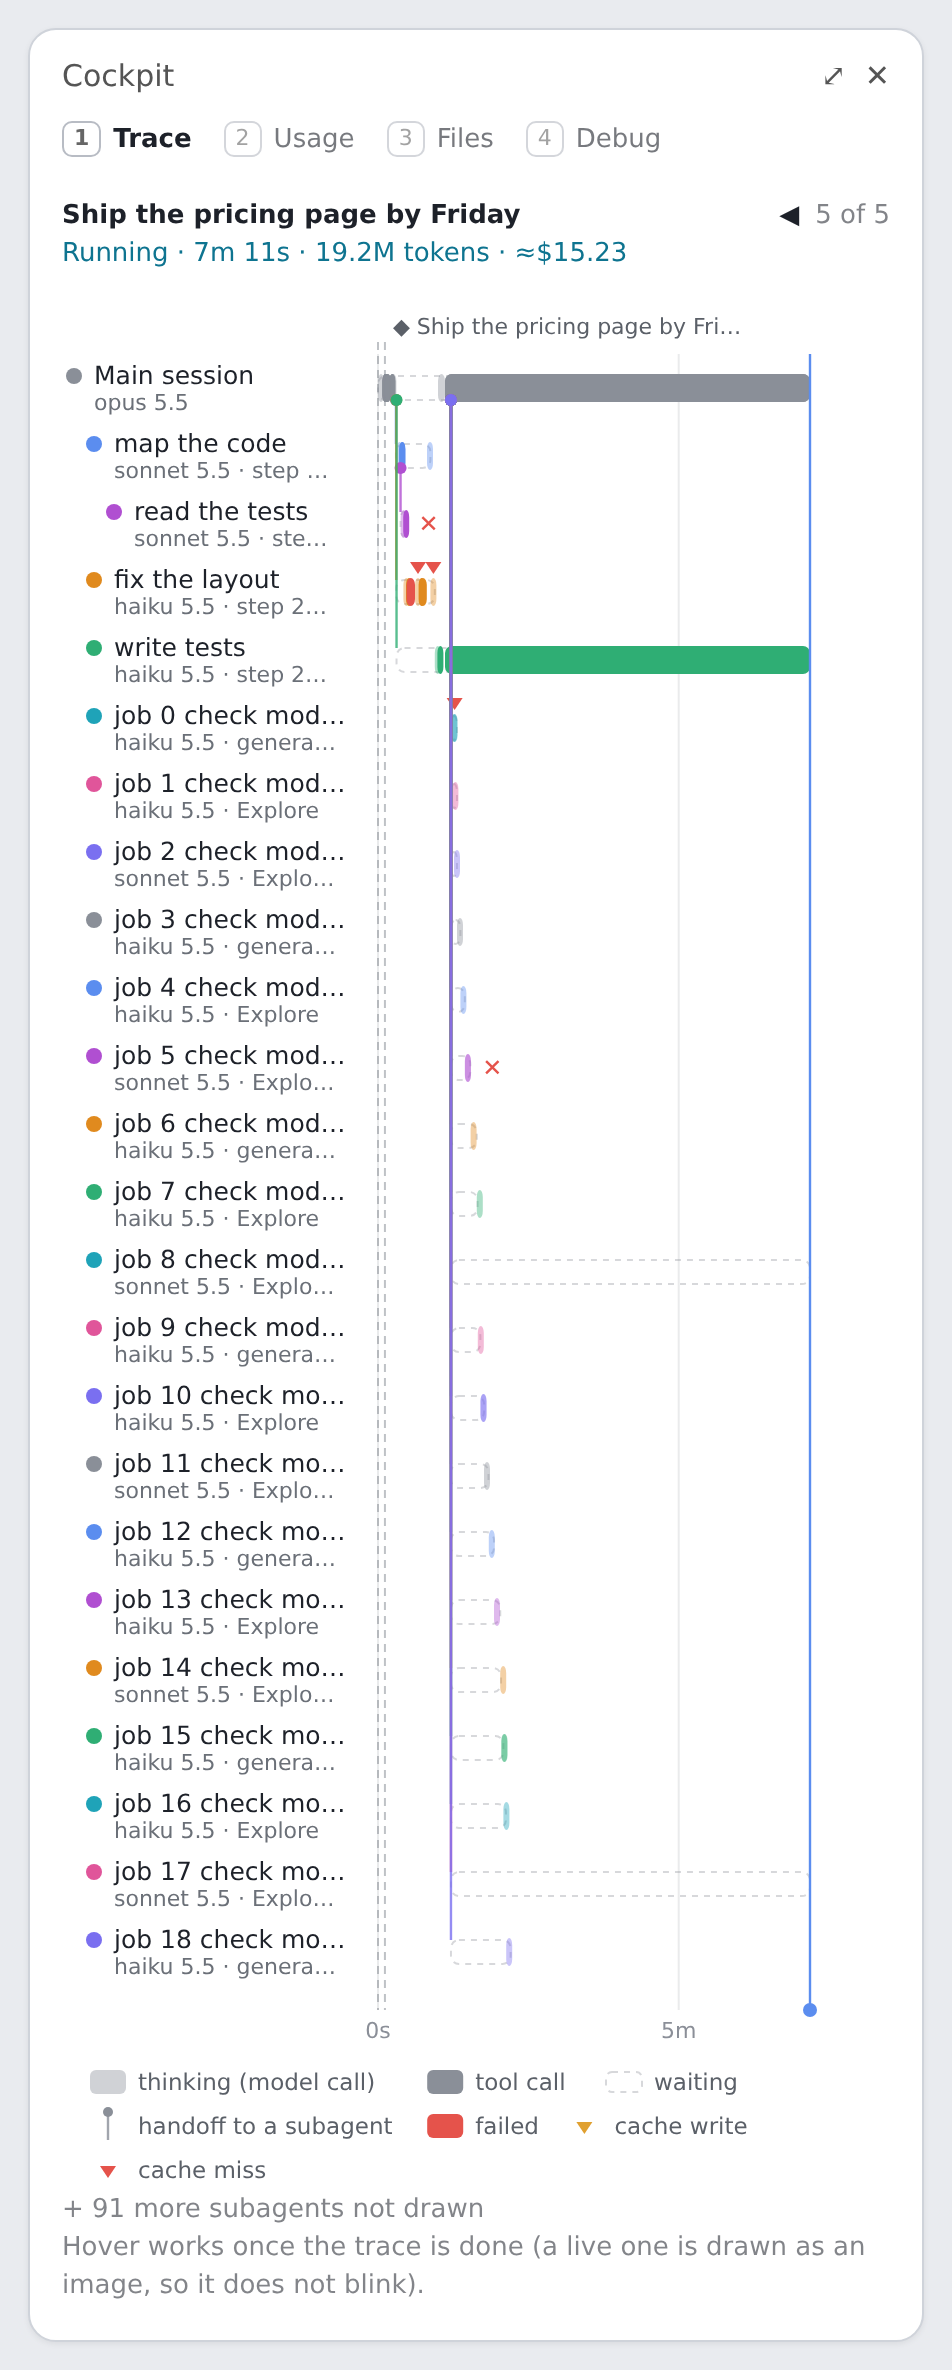
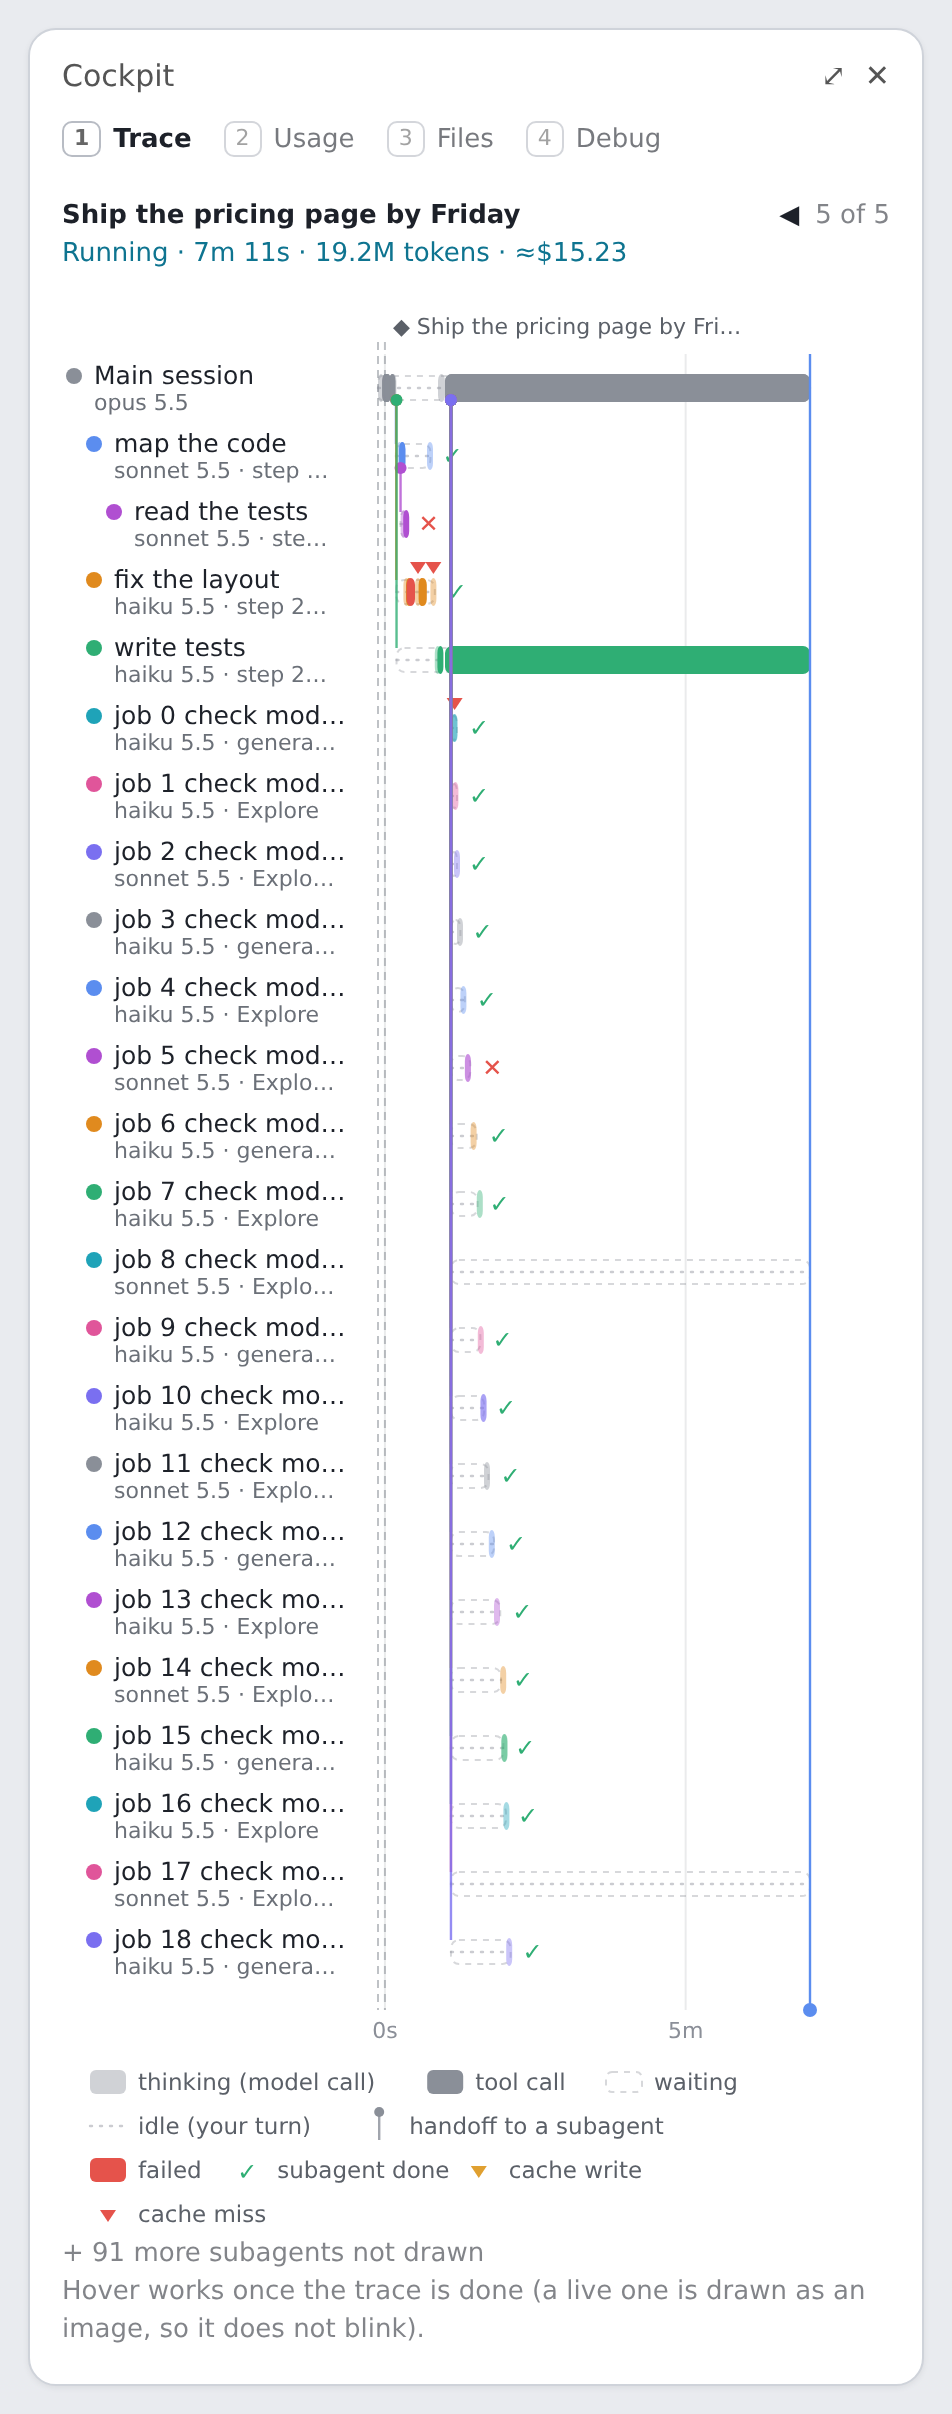
cockpit 0.19.0: idle time between turns, finished subagents marked and closed from the agent list, previous prompt only a short lead-in with time counted from the latest

diff --git a/lib/lanes.js b/lib/lanes.js
@@ -98,6 +98,8 @@ export function lanesOf(S, rootIds, now) {
       depth,
       t0: sp.t0,
       t1: isMain ? Math.max(...rootIds.map((id) => end[id])) : sp.t1 ?? now,
+      // When the lane was at work (a turn open, or the subagent running); the rest of its life is idle, waiting on you.
+      active: isMain ? all.filter((x) => x.k === 'turn').map((x) => [x.t0, x.t1 ?? now]) : [[sp.t0, sp.t1 ?? now]],
       from,
       blocks,
       live: sp.st === 'run',
@@ -107,11 +109,16 @@ export function lanesOf(S, rootIds, now) {
     for (const ag of isMain ? rootIds.flatMap((id) => agentsUnder(id)) : agentsUnder(sp.id)) add(ag, depth + 1, lanes.find((l) => l.id === sp.id))
   }
   add(root, 0, null)
-  const hidden = Math.max(0, lanes.length - MAX_LANES)
   const T1 = Math.max(...rootIds.map((id) => end[id]), root.t0 + 1000)
+  // The axis counts from the latest prompt (0s). The one before shows only as a short lead-in, a quarter of the
+  // latest's length (30 s at least), so it gives context without taking the room; lanes over before it are left out.
+  const origin = S.spans[rootIds[rootIds.length - 1]].t0
+  const T0 = Math.max(root.t0, origin - Math.max(30000, (T1 - origin) / 4))
+  const shownLanes = lanes.filter((l) => l.depth === 0 || l.t1 >= T0)
+  const hidden = Math.max(0, shownLanes.length - MAX_LANES)
   // Where each prompt began: a dashed line and its words, so the earlier one reads as context.
   const marks = rootIds.map((id) => ({ t: S.spans[id].t0, title: titleOf(S.spans[id].n) || 'continued' }))
-  return { T0: root.t0, T1, marks, lanes: lanes.slice(0, MAX_LANES), hidden, live: all.some((s) => s.st === 'run') }
+  return { T0, T1, origin, marks, lanes: shownLanes.slice(0, MAX_LANES), hidden, live: all.some((s) => s.st === 'run') }
 }
 
 const TICKS = [1, 2, 5, 10, 15, 30, 60, 120, 300, 600, 900, 1800, 3600, 7200].map((s) => s * 1000)
@@ -135,9 +142,10 @@ export function lanesSvg(m, W, now) {
   let s = ''
   // grid and ticks
   const step = tickStep(span, Math.floor((x1 - x0) / 70))
-  for (let at = 0; at <= span; at += step) {
-    const x = X(m.T0 + at)
-    s += `<line x1="${x}" y1="${TOP}" x2="${x}" y2="${AX - 14}" class="grid"/><text x="${x}" y="${AX}" class="tick" text-anchor="middle">${tickLabel(at)}</text>`
+  // Ticks count from the latest prompt; the lead-in before it reads as negative time.
+  for (let at = Math.ceil((m.T0 - m.origin) / step) * step; m.origin + at <= m.T1; at += step) {
+    const x = X(m.origin + at)
+    s += `<line x1="${x}" y1="${TOP}" x2="${x}" y2="${AX - 14}" class="grid"/><text x="${x}" y="${AX}" class="tick" text-anchor="middle">${at < 0 ? '−' + tickLabel(-at) : tickLabel(at)}</text>`
   }
   const marks = m.marks.length > 1 ? m.marks : []
   marks.forEach((mk, i) => {
@@ -155,7 +163,11 @@ export function lanesSvg(m, W, now) {
     // the lane's life: a hatched track from start to end, so waiting reads as waiting
     const a = X(l.t0)
     const b = Math.max(X(l.t1), a + 3)
-    s += `<rect x="${a}" y="${y - 6}" width="${b - a}" height="12" rx="4" class="wait"/>`
+    s += `<line x1="${a}" y1="${y}" x2="${b}" y2="${y}" class="idle"/>`
+    for (const [p, q] of l.active) {
+      const pa = X(p)
+      s += `<rect x="${pa}" y="${y - 6}" width="${Math.max(X(q) - pa, 3)}" height="12" rx="4" class="wait"/>`
+    }
     // handoff: a connector from the spawning lane down to this one
     if (l.from) {
       const py = TOP + m.lanes.indexOf(l.from) * LANE + LANE / 2
@@ -169,14 +181,16 @@ export function lanesSvg(m, W, now) {
       s += `<rect x="${bx.toFixed(1)}" y="${y - 7}" width="${bw.toFixed(1)}" height="14" rx="3.5" fill="${fill}" fill-opacity="${op}" class="blk"><title>${esc(bk.tip)}</title></rect>`
       if (bk.cache === 'miss' || bk.cache === 'write') s += tri(bx + bw / 2, y - 9, CACHE[bk.cache], bk.tip)
     }
+    // How a lane ended: ✕ failed or stopped, ✓ done; a running one has neither and runs to the now line.
     if (l.failed) s += `<text x="${b + 6}" y="${y + 4}" class="fail">✕</text>`
+    else if (!l.live && l.depth) s += `<text x="${b + 6}" y="${y + 4}" class="done">✓</text>`
   })
   if (m.live) {
     const nx = X(now)
     s += `<line x1="${nx}" y1="${TOP}" x2="${nx}" y2="${AX - 14}" class="now"/><circle cx="${nx}" cy="${AX - 14}" r="3.5" class="nowdot"/>`
   }
   s += `<g transform="translate(0,${AX + 10})">${legend.svg}</g>`
-  const css = `.mark{stroke:#8b8f98;stroke-opacity:.55;stroke-dasharray:4 3}.mk{font-size:11px;fill:#5b6068}@media (prefers-color-scheme:dark){.mk{fill:#b4b8bf}}.lg{font-size:11.5px;fill:#5b6068}@media (prefers-color-scheme:dark){.lg{fill:#b4b8bf}}text{font-family:ui-sans-serif,system-ui,-apple-system,"Segoe UI",sans-serif}.name{font-size:12.5px;fill:#1d2129;font-weight:500}.sub{font-size:11px;fill:#6b7078}.tick{font-size:11px;fill:#8b8f98}.grid{stroke:#8b8f98;stroke-opacity:.18}.wait{fill:none;stroke:#8b8f98;stroke-opacity:.35;stroke-dasharray:3 3}.hand{fill:none;stroke-width:1.2;stroke-opacity:.8}.blk:hover{stroke:#1d2129;stroke-width:1.2}.fail{font-size:12px;fill:#e5534b}.now{stroke:#5b8def;stroke-width:1.2}.nowdot{fill:#5b8def}@media (prefers-color-scheme:dark){.name{fill:#e8e9ec}.sub{fill:#a2a6ad}.blk:hover{stroke:#fff}}`
+  const css = `.mark{stroke:#8b8f98;stroke-opacity:.55;stroke-dasharray:4 3}.mk{font-size:11px;fill:#5b6068}@media (prefers-color-scheme:dark){.mk{fill:#b4b8bf}}.lg{font-size:11.5px;fill:#5b6068}@media (prefers-color-scheme:dark){.lg{fill:#b4b8bf}}text{font-family:ui-sans-serif,system-ui,-apple-system,"Segoe UI",sans-serif}.name{font-size:12.5px;fill:#1d2129;font-weight:500}.sub{font-size:11px;fill:#6b7078}.tick{font-size:11px;fill:#8b8f98}.grid{stroke:#8b8f98;stroke-opacity:.18}.idle{stroke:#8b8f98;stroke-opacity:.45;stroke-width:1.2;stroke-dasharray:1 4;stroke-linecap:round}.wait{fill:none;stroke:#8b8f98;stroke-opacity:.35;stroke-dasharray:3 3}.hand{fill:none;stroke-width:1.2;stroke-opacity:.8}.blk:hover{stroke:#1d2129;stroke-width:1.2}.fail{font-size:12px;fill:#e5534b}.done{font-size:12px;fill:#2fae74}.now{stroke:#5b8def;stroke-width:1.2}.nowdot{fill:#5b8def}@media (prefers-color-scheme:dark){.name{fill:#e8e9ec}.sub{fill:#a2a6ad}.blk:hover{stroke:#fff}}`
   return { svg: `<svg xmlns="http://www.w3.org/2000/svg" width="${W}" height="${H}" viewBox="0 0 ${W} ${H}"><style>${css}</style>${s}</svg>`, h: H }
 }
 
@@ -191,8 +205,10 @@ function legendSvg(x, maxX) {
     [`<rect x="0" y="-6" width="18" height="12" rx="3" fill="${c}" fill-opacity=".4"/>`, 'thinking (model call)'],
     [`<rect x="0" y="-6" width="18" height="12" rx="3" fill="${c}"/>`, 'tool call'],
     [`<rect x="0" y="-5" width="18" height="10" rx="3" class="wait"/>`, 'waiting'],
+    [`<line x1="0" y1="0" x2="18" y2="0" class="idle"/>`, 'idle (your turn)'],
     [`<path d="M9 -7 V7" stroke="${c}" class="hand"/><circle cx="9" cy="-7" r="2.5" fill="${c}"/>`, 'handoff to a subagent'],
     [`<rect x="0" y="-6" width="18" height="12" rx="3" fill="#e5534b"/>`, 'failed'],
+    [`<text x="4" y="5" class="done">✓</text>`, 'subagent done'],
     [tri(9, 4, CACHE.write, 'cache write'), 'cache write'],
     [tri(9, 4, CACHE.miss, 'cache miss'), 'cache miss'],
   ]
@@ -221,8 +237,9 @@ function fit(s, px, cw) {
 export function laneCells(l, m, cells) {
   const out = new Array(cells).fill(' ')
   const at = (t) => Math.min(cells - 1, Math.max(0, Math.floor(((t - m.T0) / (m.T1 - m.T0)) * cells)))
-  for (let c = at(l.t0); c <= at(l.t1); c++) out[c] = 'wait'
-  const rank = { wait: 0, think: 1, write: 2, miss: 3, tool: 4, err: 5 }
+  for (let c = at(l.t0); c <= at(l.t1); c++) out[c] = 'idle'
+  for (const [p, q] of l.active) for (let c = at(p); c <= at(q); c++) out[c] = 'wait'
+  const rank = { idle: -1, wait: 0, think: 1, write: 2, miss: 3, tool: 4, err: 5 }
   for (const b of l.blocks) {
     const k = b.kind === 'think' && (b.cache === 'miss' || b.cache === 'write') ? b.cache : b.kind
     for (let c = at(b.t0); c <= at(b.t1); c++) if ((rank[k] ?? 0) > (rank[out[c]] ?? -1)) out[c] = k

diff --git a/tests/cockpit.test.ts b/tests/cockpit.test.ts
@@ -1,6 +1,6 @@
 import { resolveTtl, parseTtl, subCache } from '../lib/model.js'
 import { expect, mock, test } from 'claude-code/testing'
-import { alerts, newState, onSpawn, onToolStart, onToolEnd, onStepStart, onStepEnd, onTurnStart, onTurnComplete, showPath, traceRoots, traceTree, snapshot, restore, MAX_SPANS } from '../lib/model.js'
+import { syncAgents, alerts, newState, onSpawn, onToolStart, onToolEnd, onStepStart, onStepEnd, onTurnStart, onTurnComplete, showPath, traceRoots, traceTree, snapshot, restore, MAX_SPANS } from '../lib/model.js'
 
 const BAND = { plugin: 'cockpit', component: 'AbovePrompt', props: { hasSurvey: false, isWorking: false, maxRows: 10, bodyColumns: 120, scroll: { offset: 0, bodyRows: 3 }, view: {} } } as const
 const PANE = {
@@ -365,6 +365,17 @@ test('the trace nests model calls, tools and subagents under their prompt, timed
   expect([call.t0, call.t1, call.tok]).toEqual([1000, 4000, 51_210])
   expect(call.cost).toBeGreaterThan(0)
   expect(end['u:t1']).toBe(53_000) // the prompt's trace lasts until its subagent is done
+})
+
+test('a subagent whose end was never heard is closed from the agent list, with its unanswered last call', () => {
+  const S: any = newState()
+  onTurnStart(S, { turnId: 't1', text: 'go' }, 1000)
+  onToolStart(S, 'ag1', 'Agent', undefined, 2000, { description: 'build' })
+  onSpawn(S, 'x1', { tool_use_id: 'ag1', description: 'build', subagentType: 'builder', background: true }, 'claude-sonnet-5-5', 2000)
+  onToolStart(S, 'h1', 'SubagentHandback', 'x1', 9000, {})
+  S.agents.x1.lastAt = 9000
+  syncAgents(S, [{ id: 'x1', status: 'completed' }])
+  expect([S.spans['t:ag1'].st, S.spans['t:ag1'].t1, S.spans['t:h1'].st, S.spans['t:h1'].t1]).toEqual(['ok', 9000, 'ok', 9000])
 })
 
 test('a prompt sent once the subagents are done starts a new trace; the oldest traces go past the cap', () => {

diff --git a/lib/model.js b/lib/model.js
@@ -297,8 +297,8 @@ const endState = (e) => (e.isAborted || e.reason === 'aborted' ? 'abort' : e.rea
 
 export function onTurnComplete(S, e, t) {
   if (e.agentId) {
-    const sp = ensureAgentSpan(S, e.agentId, t)
-    Object.assign(sp, { t1: t, st: endState(e), res: snip(e.answer, 200) })
+    ensureAgentSpan(S, e.agentId, t)
+    closeAgentSpan(S, e.agentId, t, endState(e), snip(e.answer, 200))
   } else {
     const sp = S.spans['u:' + e.turnId]
     if (sp) Object.assign(sp, { t1: t, st: endState(e) })
@@ -422,11 +422,24 @@ export function planProgress(S) {
   return { done, total: S.plan.tasks.length, title: S.plan.title }
 }
 
+// Claude Code's own agent list. It also closes the lane of a subagent whose end we never heard (a background
+// subagent's turn.complete does not always reach the mod), at its last sign of life.
+const ENDED = { completed: 'ok', failed: 'err', killed: 'abort' }
 export function syncAgents(S, list) {
   for (const info of list || []) {
     const a = S.agents[info.id]
     if (a && info.status && a.status !== 'completed') a.status = info.status
+    if (ENDED[info.status]) closeAgentSpan(S, info.id, a ? a.lastAt : null, ENDED[info.status])
   }
+}
+
+// Ends a subagent's span and anything of its own still marked running (its last call, SubagentHandback, gets no result).
+function closeAgentSpan(S, agentId, t, st, res) {
+  const sp = S.spans[S.agentSpan[agentId]]
+  if (!sp || sp.st !== 'run') return
+  const end = Math.max(sp.t0, t ?? sp.t0)
+  Object.assign(sp, { t1: end, st }, res === undefined ? {} : { res })
+  for (const x of Object.values(S.spans)) if (x.a === agentId && x.st === 'run' && (x.k === 'tool' || x.k === 'llm')) Object.assign(x, { t1: Math.max(x.t0, end), st: 'ok' })
 }
 
 export function runningAgents(S) {

diff --git a/lib/views.js b/lib/views.js
@@ -302,7 +302,7 @@ const TERM_KIND = { think: 'gray', write: 'yellow', miss: 'red', err: 'red' }
 // The terminal legend: each swatch drawn as the lanes draw it.
 function termLegend(Box, Text) {
   const sw = (bg, label) => Box({ flexDirection: 'row', columnGap: 1, children: [Box({ width: 2, height: 1, backgroundColor: bg }), T(Text, label, { dim: true })] })
-  const items = [sw('gray', 'thinking'), sw('blue', 'tool call (lane colour)'), Box({ flexDirection: 'row', columnGap: 1, children: [T(Text, '──', { dim: true }), T(Text, 'waiting', { dim: true })] }), sw('yellow', 'cache write'), sw('red', 'cache miss or failed')]
+  const items = [sw('gray', 'thinking'), sw('blue', 'tool call (lane colour)'), Box({ flexDirection: 'row', columnGap: 1, children: [T(Text, '──', { dim: true }), T(Text, 'waiting', { dim: true })] }), Box({ flexDirection: 'row', columnGap: 1, children: [T(Text, '··', { dim: true }), T(Text, 'idle (your turn)', { dim: true })] }), sw('yellow', 'cache write'), sw('red', 'cache miss or failed')]
   return Box({ flexDirection: 'row', flexWrap: 'wrap', columnGap: 2, children: items })
 }
 
@@ -320,6 +320,7 @@ function termLanes(Box, Text, m, cols) {
       const n = j - i
       const k = st[i]
       if (k === 'wait') runs.push(T(Text, '─'.repeat(n), { dim: true }))
+      else if (k === 'idle') runs.push(T(Text, '·'.repeat(n), { dim: true }))
       else if (k === ' ') runs.push(T(Text, ' '.repeat(n)))
       else runs.push(Box({ width: n, flexShrink: 0, height: 1, backgroundColor: TERM_KIND[k] || l.term }))
       i = j

diff --git a/README.md b/README.md
@@ -18,7 +18,7 @@ A Claude Code mod: one recorder, many views. Built against Claude Code 2.1.289. 
 - **crew pill** (only while subagents are running): done / total, one square per subagent in spawn order (blue running, grey done, red failed, amber stopped, hollow = planned and not started; brighter as its context fills), and failed / running counts. Crews over forty are grouped, each square showing the busiest state in its group.
 
 **`/cockpit` pane** (keys 1-4 switch tabs):
-1. **Trace** (opens first): where the time went in one prompt, as swimlanes. The main session and each subagent (under the one that spawned it) get a lane with their model; their thinking (faded) and tool calls (solid) sit on one time axis, a dashed track while they wait, a line where work was handed off, failed calls in red; a triangle over a model call marks a cache write (amber) or a cache miss (red), and its tooltip says how much was read and written and whether the cache had expired. A drawn legend explains every mark. On Desktop, once the trace is done, hover a block for its detail (a live trace is drawn as a plain image: an interactive SVG reloads its frame on every update and blinks) (the command or file, how long, tokens, the error); hover a name for the subagent's answer. The latest prompt is drawn with the one before it on the same axis, each marked where it began (◆ and its words), so a new message does not start from zero; ◀ ▶ show one earlier prompt at a time. A turn its subagents wake stays in the same trace.
+1. **Trace** (opens first): where the time went in one prompt, as swimlanes. The main session and each subagent (under the one that spawned it) get a lane with their model; their thinking (faded) and tool calls (solid) sit on one time axis, a dashed track while they wait, a line where work was handed off, failed calls in red; a triangle over a model call marks a cache write (amber) or a cache miss (red), and its tooltip says how much was read and written and whether the cache had expired. A drawn legend explains every mark. On Desktop, once the trace is done, hover a block for its detail (a live trace is drawn as a plain image: an interactive SVG reloads its frame on every update and blinks) (the command or file, how long, tokens, the error); hover a name for the subagent's answer. Time counts from the latest prompt (0s); the one before shows as a short lead-in (a quarter of the latest's length, negative time), each prompt marked where it began (◆ and its words), so a new message does not start from nothing. Between turns the main lane is idle (a dotted line: waiting on you), not waiting; a finished subagent ends in ✓. A subagent whose end the mod never heard is closed from Claude Code's own agent list; ◀ ▶ show one earlier prompt at a time. A turn its subagents wake stays in the same trace.
 2. **Usage**: context, the 5-hour and weekly windows with reset times, task, plan and agent progress, money (API accounts) or worth (subscriptions), session counters and turn-time stats; then the prompt cache: main-window countdown, the subagent caches, read / wrote / new totals, every model or effort switch with the tokens it re-cached, and a stacked bar per request; at the bottom, calls, failures and p50 / p95 per tool for the whole session
 3. **Files**: reads, edits and repeated reads per file. Paths are relative to the workspace folder; a file outside it is shown in full with ↗
 4. **Debug**: which events the recorder has actually seen, and when. Start here if a panel is empty.
